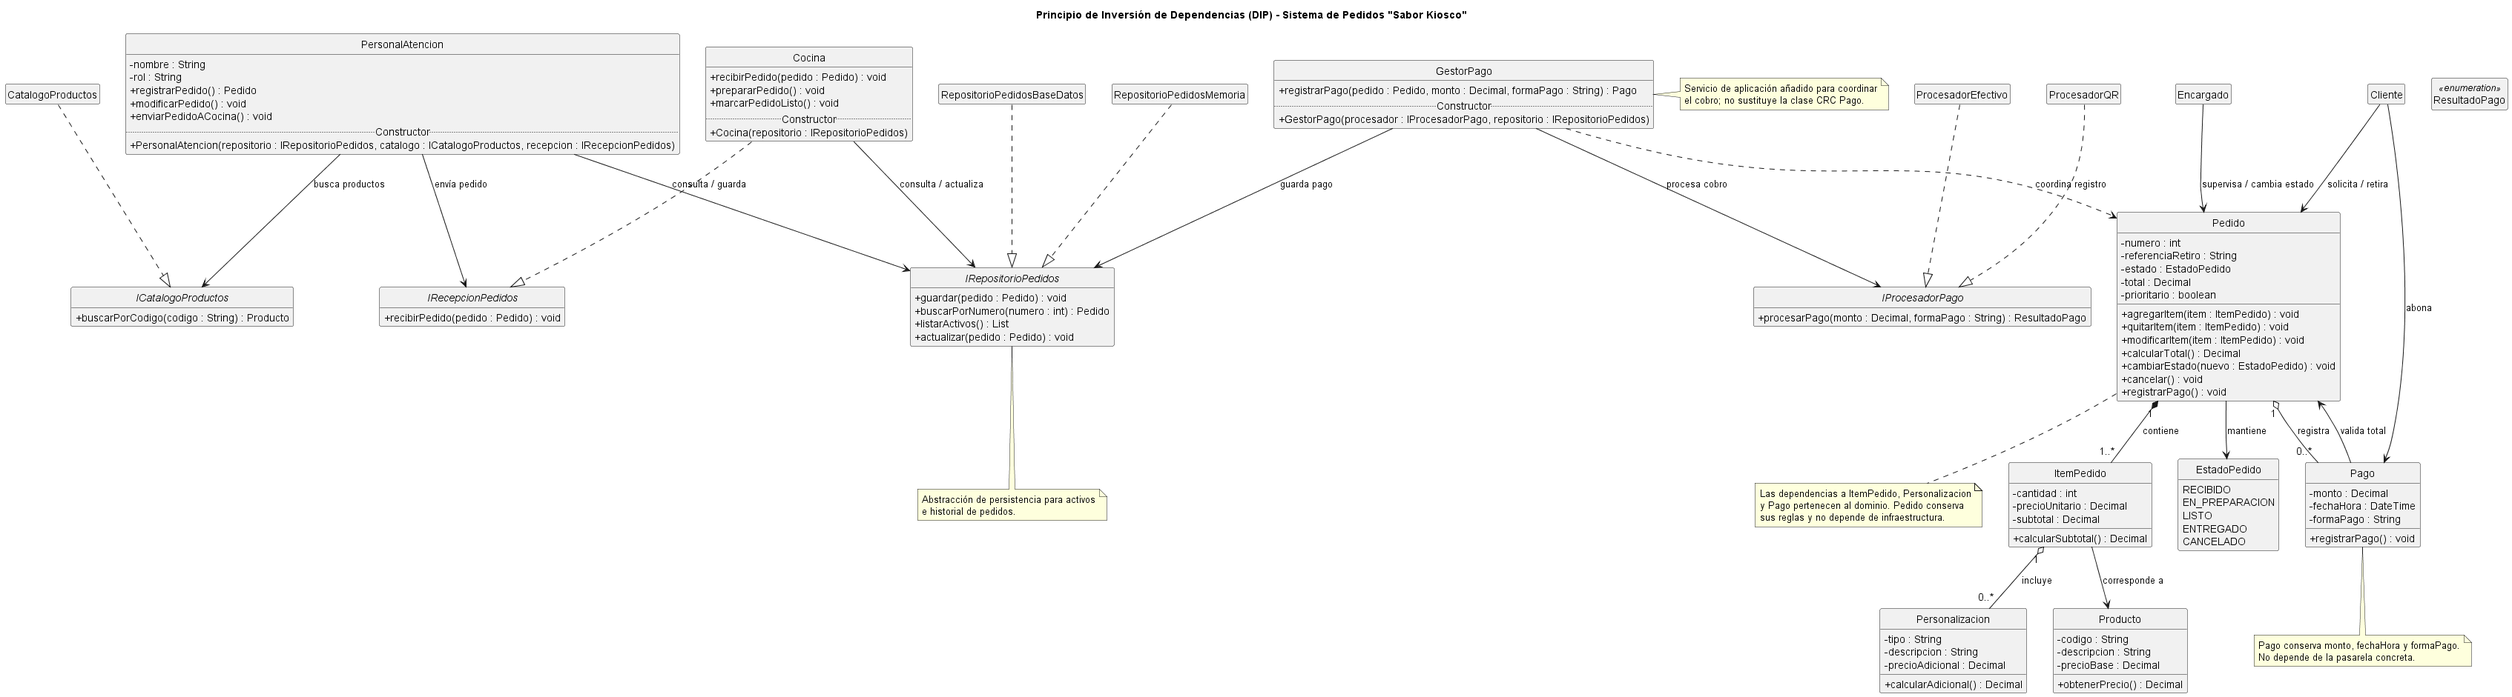
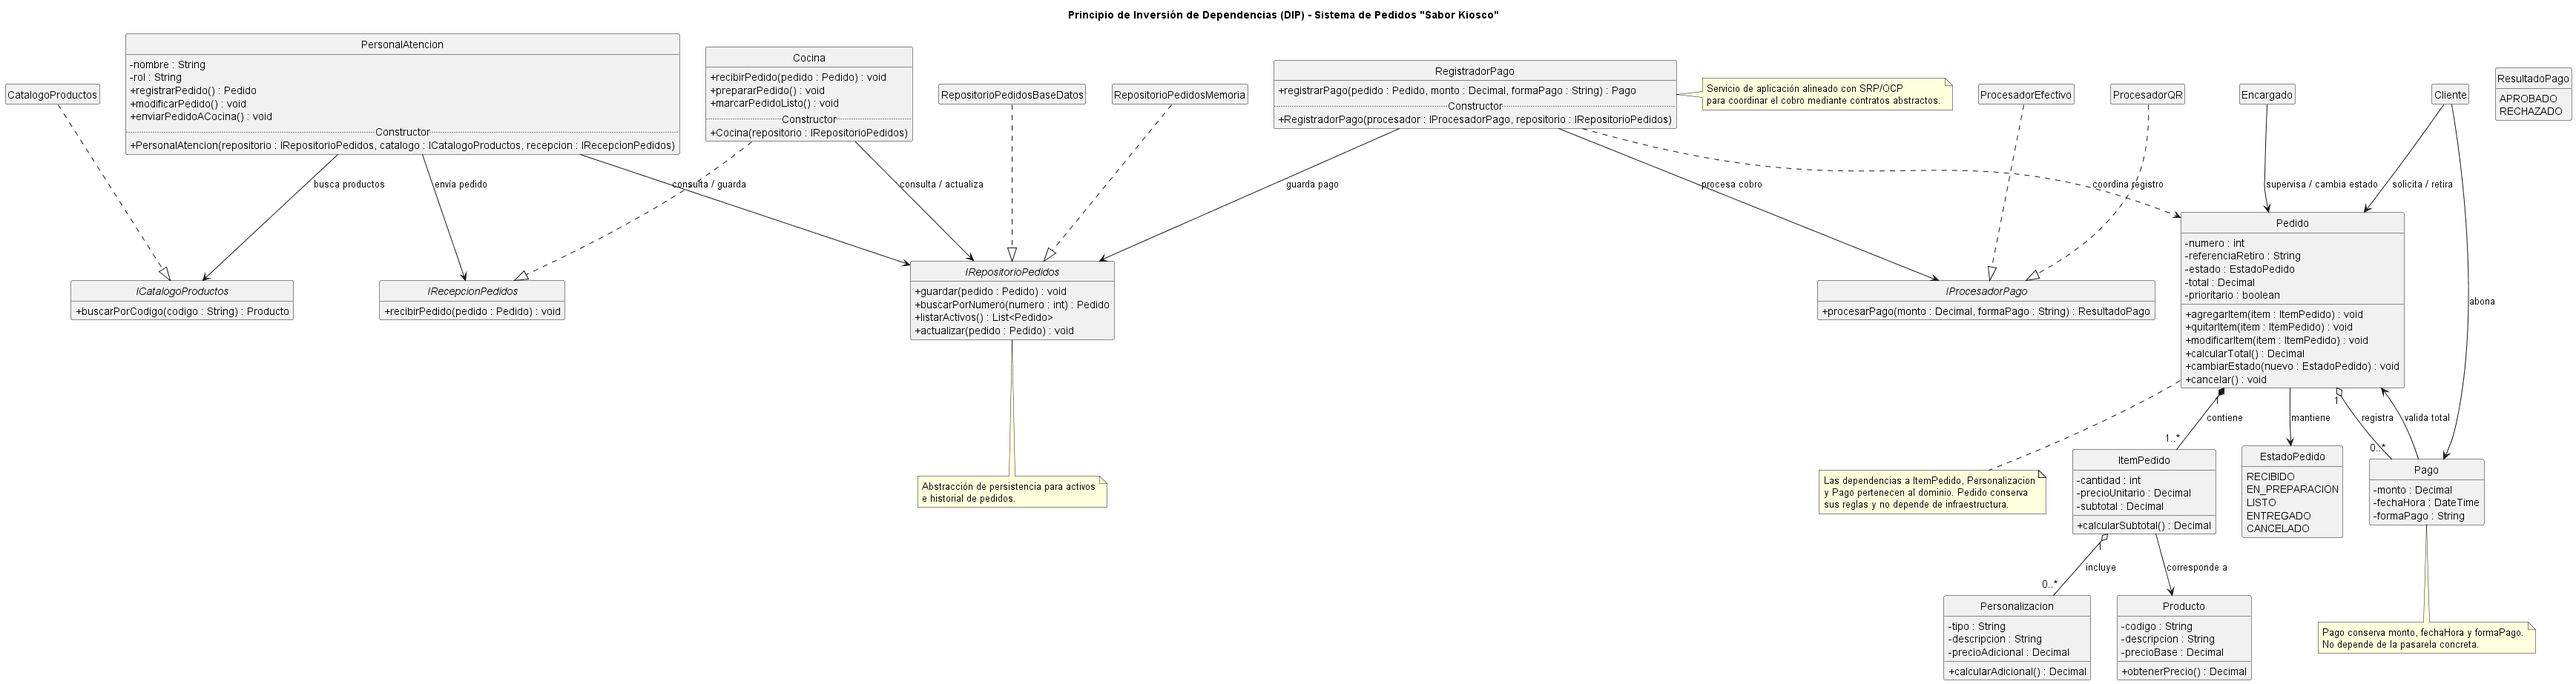
fix(dip): resolver hallazgos #1 a #6 del code review

diff --git a/anexos/principios-solid/05-dip.md b/anexos/principios-solid/05-dip.md
@@ -1,57 +1,37 @@
-# Principio de Inversión de Dependencias (DIP)
+# Anexo 05: Principio de Inversión de Dependencias (DIP)
 
-## Propósito
-El **Principio de Inversión de Dependencias (DIP)** establece que los módulos de alto nivel, donde viven las reglas del negocio, no deben depender directamente de detalles de bajo nivel, como una base de datos, una terminal de cobro o un medio de comunicación. Ambos deben depender de abstracciones estables, y las implementaciones concretas deben cumplir esos contratos.
+## Propósito y Tipo del Principio SOLID
+El Principio de Inversión de Dependencias (DIP) es un principio de **diseño estructural y arquitectónico**. Su propósito principal es desacoplar los módulos de alto nivel (la lógica de negocio o de dominio) de los módulos de bajo nivel (los detalles de implementación, como persistencia o pasarelas de pago). 
 
-Aplicarlo no significa crear interfaces para todas las clases. En el Kiosco "Sabor", `Pedido`, `ItemPedido`, `Producto`, `Personalizacion` y `Pago` son conceptos del dominio. Sus colaboraciones entre sí representan el negocio y no necesitan ocultarse tras interfaces solo por ser dependencias concretas.
+DIP establece dos reglas fundamentales:
+1. Los módulos de alto nivel no deben depender de módulos de bajo nivel; ambos deben depender de abstracciones.
+2. Las abstracciones no deben depender de los detalles; los detalles deben depender de las abstracciones.
 
-## Dependencias del diseño actual
-Las tarjetas CRC identifican estas colaboraciones concretas:
+## Motivación
+En el diseño inicial, clases de alto nivel como `PersonalAtencion` o `Cocina` dependían directamente de implementaciones concretas de almacenamiento o procesamiento de pagos. Esto generaba un fuerte acoplamiento, imposibilitaba las pruebas unitarias aisladas y requería modificar la lógica de negocio ante cualquier cambio tecnológico en la infraestructura.
 
-| Clase | Colaboradores concretos indicados por las CRC | Evaluación DIP |
-|---|---|---|
-| `PersonalAtencion` | `Pedido`, `Producto`, `Personalizacion`, `Cocina` | Los primeros tres son conceptos del dominio. La interacción directa con `Cocina` acopla el envío del pedido a una forma particular de recepción. El diseño tampoco expresa contratos para consultar el catálogo o guardar pedidos. |
-| `Cocina` | `Pedido`, `PersonalAtencion`, `ItemPedido`, `Producto` | `Pedido`, `ItemPedido` y `Producto` son datos y reglas del dominio que cocina necesita interpretar. Depender de `PersonalAtencion` para recibir pedidos une dos roles que pueden comunicarse mediante un contrato. |
-| `Pedido` | `ItemPedido`, `Personalizacion`, `PersonalAtencion`, `Cocina`, `Encargado`, `Pago`, `Cliente` | `ItemPedido`, `Personalizacion` y `Pago` son colaboradores del dominio. Las referencias a roles (`PersonalAtencion`, `Cocina`, `Encargado` y `Cliente`) no deberían ser necesarias para que `Pedido` aplique sus propias reglas y transiciones. |
-| `Pago` | `Pedido`, `Cliente` | `Pedido` es la entidad cuyo total se valida; esta relación pertenece al dominio. `Cliente` representa al actor que abona, pero no es necesario que la entidad que registra un pago dependa del actor. El tipo concreto del procesador de cobro no aparece en la CRC ni debe incorporarse a `Pago`. |
+Al aplicar DIP, introducimos interfaces que actúan como contratos neutros, invirtiendo la dirección de la dependencia para garantizar un sistema extensible y mantenible.
 
-El boceto también muestra responsabilidades como `enviarPedidoACocina()`, `recibirPedido()`, `registrarPago()` y `calcularTotal()`. No incluye persistencia ni proveedores concretos de cobro; esos detalles se proponen como puntos de extensión, en lugar de atribuirlos retrospectivamente a las tarjetas.
+## Explicación de Clases Abstractas e Interfaces
+- **Interfaces:** Definen un contrato puro de comportamiento sin implementación ni estado propio. Se utilizaron para definir la persistencia (`IRepositorioPedidos`), el catálogo (`ICatalogoProductos`), la recepción de comandas (`IRecepcionPedidos`) y la pasarela de pagos (`IProcesadorPago`), asegurando un desacoplamiento total.
+- **Clases Abstractas:** Se emplean cuando existe código compartido o un estado común entre varias clases derivadas dentro de una misma jerarquía de herencia.
 
-## Abstracciones propuestas
+## Estructura de Clases
+El diseño refactorizado introduce interfaces estratégicas para desacoplar las responsabilidades de infraestructura y servicios:
 
-### Comunicación con cocina
-`IRecepcionPedidos` define el contrato para recibir un pedido, manteniendo la responsabilidad de `Cocina` de recibir pedidos enviados para preparación. `Cocina` puede implementar este contrato, y en el futuro otra implementación podría adaptar una pantalla o una impresora de comandas. `PersonalAtencion` depende del contrato y conserva los nombres de sus responsabilidades: registrar, modificar y enviar el pedido a cocina.
+1. **`IRecepcionPedidos`:** Define el contrato para la recepción de comandas. `Cocina` implementa este contrato, permitiendo que en el futuro se sustituya por una pantalla o impresora sin modificar `PersonalAtencion`.
+2. **`ICatalogoProductos`:** Permite consultar los datos de productos disponibles sin acoplar la atención al cliente a una tecnología específica de catálogo.
+3. **`IRepositorioPedidos`:** Abstrae las operaciones de persistencia (guardar, buscar, listar, actualizar) de los pedidos. Puede ser implementado por repositorios en memoria, bases de datos SQL o NoSQL.
+4. **`IProcesadorPago`:** Contrato que aísla la lógica externa del cobro (`ProcesadorEfectivo`, `ProcesadorQR`), impidiendo que las entidades de dominio dependan de pasarelas de pago.
 
-### Catálogo y almacenamiento
-`ICatalogoProductos` permite que `PersonalAtencion` obtenga los `Producto` disponibles sin acoplarse a cómo se administra el catálogo. `IRepositorioPedidos` abstrae guardar y recuperar pedidos, incluidos los activos y el historial. Puede ser implementado por un repositorio en memoria o uno conectado a una base de datos.
+### Diagrama de clases
+[![Diagrama UML - DIP](../../diagramas/01-diagrama-clases/01-solid-05-dip.png)](../../diagramas/01-diagrama-clases/01-solid-05-dip.png)
 
-Estas interfaces no reemplazan a `Producto` ni a `Pedido`: devuelven y almacenan las entidades CRC existentes. `Cocina` continúa interpretando `Pedido`, `ItemPedido` y `Producto`, que son parte del lenguaje del dominio.
+- [Ver el diagrama en detalle (PNG)](../../diagramas/01-diagrama-clases/01-solid-05-dip.png)
+- [Ver el código PlantUML](../../diagramas/01-diagrama-clases/01-solid-05-dip.puml)
 
-### Procesamiento del pago
-`Pago` conserva los datos del pago (`monto`, `fechaHora` y `formaPago`) y su vínculo con `Pedido`. No conoce una terminal, una pasarela ni una implementación concreta de cobro. Un servicio de aplicación `GestorPago` coordina el proceso a través de `IProcesadorPago` y guarda el resultado mediante `IRepositorioPedidos`; implementaciones como `ProcesadorEfectivo` o `ProcesadorQR` cumplen el contrato.
-
-`GestorPago` es un coordinador de aplicación añadido para ubicar la integración externa. No reemplaza a `Pago`, no cambia las tarjetas CRC y no mueve a la entidad `Pedido` la responsabilidad de comunicarse con una pasarela. Las reglas del dominio siguen validando que el importe abonado sea coherente con el total.
-
-## Inyección de dependencias por constructor
-Las implementaciones concretas se seleccionan en el punto de composición de la aplicación y se entregan a los coordinadores al crearlos. Conceptualmente, las dependencias son:
-
-| Receptor | Contratos recibidos por constructor | Motivo |
-|---|---|---|
-| `PersonalAtencion` | `IRepositorioPedidos`, `ICatalogoProductos`, `IRecepcionPedidos` | Registrar y modificar pedidos, consultar productos y enviarlos a cocina sin depender de implementaciones concretas. |
-| `Cocina` | `IRepositorioPedidos` | Consultar pedidos pendientes y actualizar su estado sin conocer el mecanismo de almacenamiento. El pedido y sus ítems siguen siendo entidades del dominio. |
-| `GestorPago` | `IProcesadorPago`, `IRepositorioPedidos` | Procesar el cobro y persistir el registro sin acoplar el flujo a un proveedor ni a una base de datos. |
-
-No se inyectan repositorios ni procesadores externos dentro de `Pedido` o `Pago`: sus responsabilidades CRC describen entidades de dominio, no servicios de infraestructura. `Pedido` sigue controlando su estado, sus ítems y el registro del pago asociado; `Pago` mantiene sus datos.
-
-## Beneficios en el Kiosco "Sabor"
-* **Extensibilidad (RNF8):** se puede sustituir el almacenamiento, el catálogo, el canal de recepción en cocina o el procesador de pago sin reescribir las reglas de `Pedido`.
-* **Pruebas aisladas:** los coordinadores pueden recibir implementaciones de prueba de los contratos; no hace falta conectar una base de datos, una impresora o un proveedor de cobro.
-* **Menor acoplamiento entre roles:** `PersonalAtencion` y `Cocina` se relacionan mediante el contrato de recepción de pedidos, no mediante conocimiento mutuo de detalles de implementación.
-* **Reglas protegidas (RNF7):** las entidades continúan siendo responsables de validar sus operaciones; la inversión de dependencias no habilita a las capas externas a cambiar directamente su estado.
-
-## Diagrama de clases
-El diagrama conserva las clases y los nombres del boceto y las tarjetas CRC, y agrega los contratos y coordinadores necesarios para mostrar los puntos de variación:
-
-![Diagrama UML - DIP](../../diagramas/01-diagrama-clases/01-solid-05-dip.png)
-
-Fuente PlantUML: [diagramas/01-diagrama-clases/01-solid-05-dip.puml](../../diagramas/01-diagrama-clases/01-solid-05-dip.puml).
+## Justificación Técnica
+La aplicación de DIP mediante Inyección de Dependencias por constructor garantiza que:
+- La lógica del kiosco (`Pedido`, `PersonalAtencion`, `Cocina`, `RegistradorPago`) dependa de contratos abstractos y no de implementaciones concretas.
+- Se puedan realizar pruebas unitarias utilizando dobles de prueba (*mocks/stubs*) sin necesidad de una base de datos ni una pasarela de pago real.
+- El sistema cumpla con el principio OCP (Open/Closed), permitiendo agregar nuevos procesadores de pago o repositorios sin alterar el código existente.

diff --git a/ia/primer-parcial/especialista-dip.md b/ia/primer-parcial/especialista-dip.md
@@ -1,58 +1,29 @@
-# Especialista en Principio de Inversión de Dependencias (DIP)
+# Bitácora de IA - Especialista en Inversión de Dependencias (DIP)
 
-## Prompt registrado
-
+## Prompt utilizado
 > Con base en los archivos del proyecto que te adjunté como contexto (`anexos/introduccion.md`, `01-boceto-inicial.excalidraw` y las tarjetas CRC de `herramientas-agile/tarjetas-crc/`):
->
 > 1. Identifica las dependencias hacia clases concretas en el diseño actual del Kiosco "Sabor", especialmente en `Pedido`, `Pago`, `PersonalAtencion` y `Cocina`.
 > 2. Propón abstracciones (interfaces o clases abstractas) para invertirlas aplicando el Principio de Inversión de Dependencias (DIP).
 > 3. Indica dónde aplicar Inyección de Dependencias por constructor.
-> 4. Genera el contenido para el anexo `anexos/principios-solid/05-dip.md` en Markdown conceptual, sin código Java.
+> 4. Genera el contenido para el anexo `anexos/principios-solid/05-dip.md` organizándolo estrictamente en las 5 secciones de la consigna y explicando conceptos de clases abstractas e interfaces.
 > 5. Genera el código PlantUML para el diagrama de clases refactorizado `diagramas/01-diagrama-clases/01-solid-05-dip.puml`.
->
+> 
 > Respeta el dominio del Kiosco "Sabor" y los nombres de métodos y atributos de las tarjetas CRC oficiales.
 
-## Contexto analizado
+## Archivos de contexto referenciados
+- [`anexos/introduccion.md`](../../anexos/introduccion.md)
+- [`diagramas/01-diagrama-clases/01-boceto-inicial-corregido.excalidraw`](../../diagramas/01-diagrama-clases/01-boceto-inicial-corregido.excalidraw)
+- [`herramientas-agile/tarjetas-crc/tarjetas-crc.md`](../../herramientas-agile/tarjetas-crc/tarjetas-crc.md)
+- Tarjetas CRC individuales (`PersonalAtencion`, `Cocina`, `Pedido`, `ItemPedido`, `Producto`, `Personalizacion`, `Pago`, `Encargado`, `Cliente`) en `herramientas-agile/tarjetas-crc/`
 
-- [Requisitos, estados, casos de uso y fundamentos de POO](../../anexos/introduccion.md)
-- [Boceto inicial corregido en Excalidraw](../../diagramas/01-diagrama-clases/01-boceto-inicial-corregido.excalidraw)
-- [Índice de tarjetas CRC](../../herramientas-agile/tarjetas-crc/tarjetas-crc.md)
-- Tarjetas CRC individuales de `PersonalAtencion`, `Cocina`, `Pedido`, `ItemPedido`, `Producto`, `Personalizacion`, `Pago`, `Encargado` y `Cliente` en `herramientas-agile/tarjetas-crc/`
+## Output obtenido
+- Texto borrador para el anexo conceptual de DIP en Markdown.
+- Código PlantUML para el diagrama de clases refactorizado con las abstracciones propuestas (`IRepositorioPedidos`, `ICatalogoProductos`, `IRecepcionPedidos`, `IProcesadorPago`).
+- Matriz de Inyección de Dependencias por constructor para `PersonalAtencion`, `Cocina` y `RegistradorPago`.
+- La imagen del diagrama (`01-solid-05-dip.png`) se generó y exportó directamente desde VS Code utilizando la extensión de PlantUML.
 
-Se tomó como fuente de verdad de responsabilidades y colaboradores el contenido de las tarjetas CRC, y se contrastó con el boceto y los requisitos funcionales y no funcionales, especialmente RNF7 (encapsulamiento de reglas) y RNF8 (extensibilidad y modularidad).
-
-## Respuestas obtenidas
-
-El análisis distinguió las colaboraciones que pertenecen al modelo del negocio de las dependencias que conviene invertir:
-
-- `Pedido` colabora con `ItemPedido`, `Personalizacion` y `Pago` como entidades del dominio. Esas dependencias expresan conceptos del pedido y no se reemplazaron por interfaces. Las referencias a los roles `PersonalAtencion`, `Cocina`, `Encargado` y `Cliente` no son necesarias para que `Pedido` aplique sus propias reglas; los actores solicitan operaciones a la entidad.
-- `Pago` mantiene `monto`, `fechaHora` y `formaPago`, y se relaciona con `Pedido` para validar el importe. No conoce un proveedor, una terminal ni una pasarela de cobro.
-- `PersonalAtencion` conserva sus responsabilidades CRC de registrar, modificar y enviar pedidos. Se propusieron contratos para persistencia, consulta del catálogo y recepción por cocina.
-- `Cocina` conserva la interpretación de `Pedido`, `ItemPedido` y `Producto`. Su recepción puede expresarse mediante una abstracción, y la consulta/actualización de pedidos puede desacoplarse del almacenamiento.
-
-Abstracciones propuestas:
-
-| Abstracción | Propósito |
-|---|---|
-| `IRepositorioPedidos` | Guardar y recuperar pedidos, consultar los activos y conservar el historial sin fijar una tecnología de almacenamiento. |
-| `ICatalogoProductos` | Consultar productos sin acoplar la atención a una implementación concreta del catálogo. |
-| `IRecepcionPedidos` | Enviar pedidos a cocina a través de un contrato que puede tener distintas implementaciones. |
-| `IProcesadorPago` | Aislar el proceso de cobro de la entidad `Pago` y permitir distintos medios o proveedores. |
-
-La inyección por constructor se ubicó conceptualmente así: `PersonalAtencion` recibe `IRepositorioPedidos`, `ICatalogoProductos` e `IRecepcionPedidos`; `Cocina` recibe `IRepositorioPedidos`; y el servicio de aplicación `GestorPago` recibe `IProcesadorPago` e `IRepositorioPedidos`. `GestorPago` coordina el cobro, pero no sustituye la clase CRC `Pago`.
-
-## Ajustes críticos realizados
-
-- Se descartó la premisa del borrador previo de que el diseño CRC ya tenía clases concretas de infraestructura para persistencia o cobro. Las tarjetas no las incluyen; los repositorios y procesadores se documentaron como puntos de extensión propuestos, no como dependencias existentes.
-- Se evitó aplicar interfaces indiscriminadamente a `Pedido`, `Pago` y a cada entidad del dominio. El DIP se enfocó en los límites variables de persistencia, catálogo, recepción en cocina y procesamiento de pagos.
-- Se separó el registro del pago de su procesamiento externo. `Pago` conserva sus datos; `GestorPago` coordina el flujo usando `IProcesadorPago` y el repositorio.
-- No se inyectaron servicios de infraestructura dentro de `Pedido` ni `Pago`, para mantener encapsuladas las reglas del dominio y respetar las responsabilidades de las tarjetas.
-- Se mantuvieron los nombres y atributos del modelo CRC, incluido `referenciaRetiro` en `Pedido`. Los métodos del diagrama se tomaron del boceto vigente y de las responsabilidades documentadas, sin incorporar código Java.
-- Se nombró el bloque PlantUML (`@startuml solid05dip`) porque el validador integrado de VS Code requería un identificador de diagrama.
-
-## Resultado final
-
-- Anexo conceptual: [05-dip.md](../../anexos/principios-solid/05-dip.md)
-- Fuente del diagrama: [01-solid-05-dip.puml](../../diagramas/01-diagrama-clases/01-solid-05-dip.puml)
-
-Ambos archivos pasaron la validación de errores integrada en VS Code. No se generó una imagen del diagrama porque el entorno no tenía disponible el ejecutable PlantUML CLI.
+## Ajustes realizados
+- **Reorganización de secciones:** Se adaptó el anexo conceptual para responder estrictamente a la estructura de 5 encabezados exigida por la consigna (`Propósito y Tipo del Principio SOLID`, `Motivación`, `Explicación de Clases Abstractas e Interfaces`, `Estructura de Clases`, `Justificación Técnica`).
+- **Inclusión teórica:** Se agregó la explicación explícita sobre la diferencia entre clases abstractas e interfaces y la fundamentación de por qué se eligieron interfaces para las abstracciones del sistema.
+- **Alineación de clases con SRP/OCP:** Se unificó la lógica de cobro reemplazando la clase `GestorPago` por `RegistradorPago`, alineando el modelo con los anexos previos de SRP y OCP, y eliminando firmas duplicadas de `registrarPago()` en `Pedido` y `Pago`.
+- **Correcciones de notación UML:** Se corrigió la declaración del tipo numerado `ResultadoPago` para usar la sintaxis `enum` nativa de PlantUML con sus literales (`APROBADO`, `RECHAZADO`), y se especificó el tipo genérico explícito `List<Pedido>` en la interfaz `IRepositorioPedidos`.

diff --git a/changelog.md b/changelog.md
@@ -7,13 +7,14 @@
 ## [Unreleased]
 
 ### Added
-- [feature/esp-dip-add-anexo-dip] P1 - Especialista en Inversión de Dependencias (DIP): anexo `05-dip.md`, diagrama de clases `01-solid-05-dip` y documento de IA. Issue: [#149](https://github.com/lucasmengarelli3/SistemaPedidos/issues/149) PR: [#150](https://github.com/lucasmengarelli3/SistemaPedidos/pull/150). @AgustinCalaver (Especialista en Inversión de Dependencias).
 
 - [feature/esp-srp-add-anexo-srp] P1 - Principio de Responsabilidad Única (SRP): anexo `01-srp.md`, diagrama de clases `01-solid-01-srp`, índice `principios_solid.md` y documentación del uso de IA. Issue: [#140](https://github.com/lucasmengarelli3/SistemaPedidos/issues/140) PR: [#141](https://github.com/lucasmengarelli3/SistemaPedidos/pull/141). @santimarM (Documentador y Coordinador de Repositorio + SRP).
 
 - [feature/esp-extension-ocp-add-anexo-ocp] P1 - Principio Abierto/Cerrado (OCP): anexo `02-ocp.md`, diagrama de clases `01-solid-02-ocp` y documentación del uso de IA. Issue: [#143](https://github.com/lucasmengarelli3/SistemaPedidos/issues/143) PR: [#144](https://github.com/lucasmengarelli3/SistemaPedidos/pull/144). @LMengarelli93 (Especialista en Principios de Extencion (OCP)).
 
 - [feature/esp-isp-add-anexo-isp] P1 - Principio de Segregación de Interfaces (ISP): anexo `04-isp.md`, diagrama de clases `01-solid-04-isp` y documentación del uso de IA. Issue: [#147](https://github.com/lucasmengarelli3/SistemaPedidos/issues/147) PR: [#148](https://github.com/lucasmengarelli3/SistemaPedidos/pull/148). @neith18 (Especialista en Segregación de Interfaces (ISP)).
+
+- [feature/esp-dip-add-anexo-dip] P1 - Especialista en Inversión de Dependencias (DIP): anexo `05-dip.md`, diagrama de clases `01-solid-05-dip` y documento de IA. Issue: [#149](https://github.com/lucasmengarelli3/SistemaPedidos/issues/149) PR: [#150](https://github.com/lucasmengarelli3/SistemaPedidos/pull/150). @AgustinCalaver (Especialista en Inversión de Dependencias).
 
 ### Changed
 
